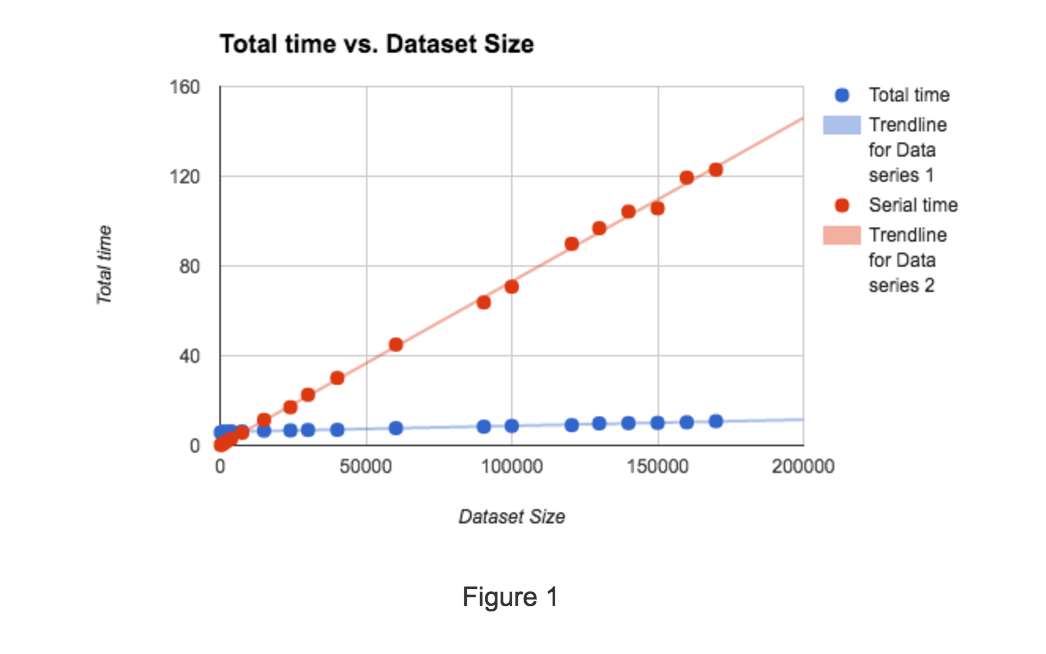
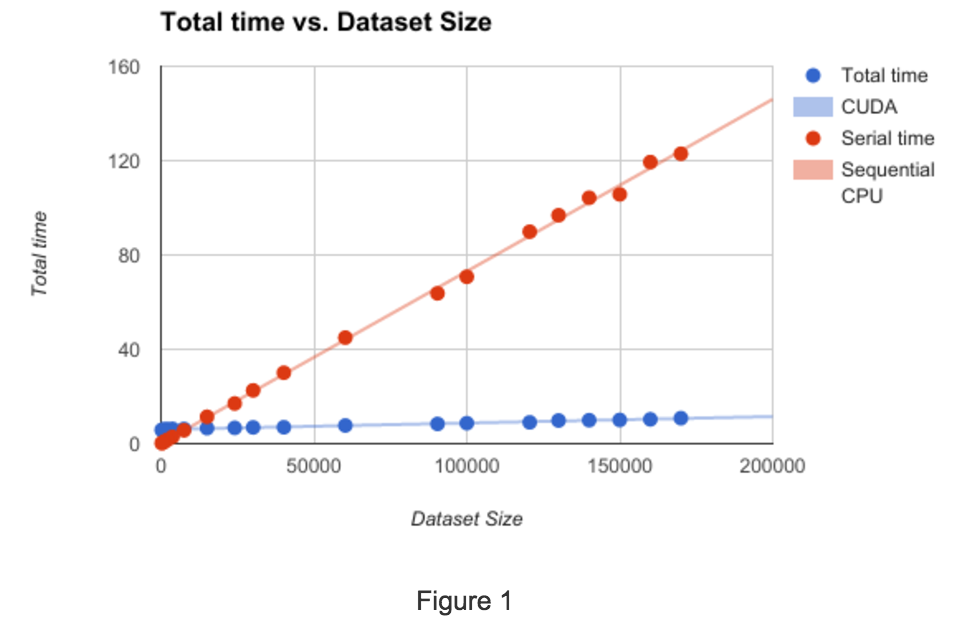
graph labels and baselines
¯\_(ツ)_/¯

diff --git a/index.html b/index.html
@@ -13,6 +13,7 @@
   	<link rel="stylesheet" href="css/materialize.min.css">
     <link rel="stylesheet" href="css/style.css">
   	<script src="js/materialize.min.js"></script>
+</script>
 
 </head>
 
@@ -39,32 +40,35 @@
      <br>
      <h5>Major technical challenges</h5>
      <p>One of the challenges arises from the fact that we are trying to outperform a sequential kd-tree-based nearest neighbor search implementation that is is fast and optimized (the Fast Library for Approximate Nearest Neighbors or FLANN). This means that we need to minimize the impact of the overhead of using the GPU for computation.</p>
-     <p>Parallelizing this algorithm is not trivial due to hardware and memory constraints. Point clouds have more than 120,000 points on average, so a naive pairwise brute force distance computation would need enough memory for 120,0002 = 14 billion entries, or 14 billion threads in total. Therefore we need to be smart about data reuse in order to reduce the memory footprint of the algorithm. We also try to use shared memory where possible to reduce the latency of memory access.</p>
+     <p>Parallelizing this algorithm is not trivial due to hardware and memory constraints. Point clouds have more than 120,000 points on average, so a naive pairwise brute force distance computation would need enough memory for 120,000&sup2; = 14 billion entries, or 14 billion threads in total. Therefore we need to be smart about data reuse in order to reduce the memory footprint of the algorithm. We also try to use shared memory where possible to reduce the latency of memory access.</p>
      <br>
      <h5>Preliminary Results</h5>
+     <h6><i>Establishing a baseline</i></h6>
+     <p>Let the reference dataset refer to the points captured at time t, and the query dataset refer to data obtained at time t+1. For this problem, we intend to find the nearest neighbor in the reference dataset for every point in the query dataset.</p>
+     <p>In the table below, the construction phase referred to the time it took to create a point cloud, and the querying phase refers to the total time taken for every point in the query dataset to find its nearest neighbor in the reference dataset. Both datasets contain more than 120,000 points.</p>
+     <center><img src="img/img7.png" width="300" height="300" align="middle"></center>
+     <br>
+
      <h6><i>Parallelizing over points</i></h6>
      <p>We developed a CUDA implementation for nearest neighbors that parallelized over the pixels in the reference point cloud and calculated the nearest neighbor for each point in the target point cloud sequentially.  In order to find out if we are maximizing the parallelism available with CUDA, we varied the number of points in the reference point cloud and obtained the following graph. </p>
-     <img src="img/img3.png" width="600" height="350">
-     <img src="img/img4.png" width="600" height="350">
+     <center><img src="img/img3.png" width="600" height="400" align="middle"></center>
+     <center><img src="img/img4.png" width="600" height="400" align="middle"></center>
      <p>As we can see from Figures 1 and 2 above, the CUDA times remained around the same (and were actually slower than the sequential implementation)  when the reference dataset contained around 2,000 points. This indicated that the overheads of the CUDA kernel calls dominated the time taken.</p>
-     <p>Beyond that, there was a somewhat linear increase in time as the number of points in the dataset increased.  This indicated that we were achieving the maximum parallelism capabilities of the machine given the constraints of our algorithm and dataset. Despite the parallelism, tis solution was still 40.3x slower than the sequential PCL kd-tree implementation. </p>
+     <p>Despite the massive parallelism that using CUDA brought, it was still <b>40.3x slower than the sequential PCL kd-tree implementation</b> with FLANN.  This led us to think of other implementations that involved launching fewer CUDA kernels or preprocessing the data.</p>
      <br>
-     <h6><i>Parallelizing over points</i></h6>
-     <p>We developed a CUDA implementation for nearest neighbors that parallelized over the pixels in the reference point cloud and calculated the nearest neighbor for each point in the target point cloud sequentially.  In order to find out if we are maximizing the parallelism available with CUDA, we varied the number of points in the reference point cloud and obtained the following graph. </p>
-     <p>As we can see from Figures 1 and 2 above, the CUDA times remained around the same (and were actually slower than the sequential implementation)  when the reference dataset contained around 2,000 points. This indicated that the overheads of the CUDA kernel calls dominated the time taken.</p>
-     <p>Beyond that, there was a somewhat linear increase in time as the number of points in the dataset increased.  This indicated that we were achieving the maximum parallelism capabilities of the machine given the constraints of our algorithm and dataset. Despite the parallelism, tis solution was still 40.3x slower than the sequential PCL kd-tree implementation. </p>
-     <br>
+
      <h6><i>Parallelizing over points in batches</i></h6>
-     <p>We moved on to use parallelize over points in batches of size chunksize.  This meant that the work performed by each CUDA thread increased by a factor of chunksize, but we made a CUDA call chunksize less times.  This turned out to be 4.3x faster our prior parallel CUDA algorithm.  This speedup can be explained by the overhead of  launching the additional CUDA kernels. </p>
+     <p>We moved on to use parallelize over points in batches of size <i>chunksize</i>.  This meant that the work performed by each CUDA thread increased by a factor of chunksize, but we made less CUDA calls by a factor of chunksize.  This turned out to be <b>4.3x faster our prior parallel CUDA algorithm and 10.17x slower than the sequential PCL kd-tree implementation</b>.  This speedup can possibly be explained by the overhead of launching the additional CUDA kernels. </p>
      <br>
      <h6><i>Reducing search space</i></h6>
+     <center><img src="img/img6.png" width="500" height="300" align="middle"></center>
      <p>Reducing the search space for nearest neighbors gives us significant additional speed up. Taking advantage of the 3D structure of Velodyne point clouds, as well as the most common use case, we can partition the point clouds by azimuth, and only search for nearest neighbors in the partition with similar azimuth. We sacrifice some correctness in reducing the search space, because the correctness nearest neighbor might not be within the space we are searching, but because this is an optimization problem and the data has noise to begin with, having some outliers is acceptable.</p>
 
-     <img src="img/img5.png" width="600" height="350">
+     <center><img src="img/img5.png" width="600" height="350" align="center"></center>
 
      <p>We see that correctness is maintained better for nearest neighbor searches between consecutive frames than between non-consecutive frames. This is not surprising, since consecutive frames, with a temporal difference of only 0.1s, are structurally similar and the simplifying assumptions we make above about where to find the nearest neighbor are more valid. Indeed, searching for nearest neighbors between consecutive frames is the most common use case, because in lidar mapping applications, the map is incrementally built every frame, and every new incoming frame is matched with the prior frame.</p>
 
-     <p>The horizontal axis, speedup, is proportional to the number of radial partitions. We can sacrifice some correctness to achieve a significant speed up. For instance, with consecutive frames, we can achieve a speedup of 48x and still find the correct nearest neighbor 99.7% of the time. We can achieve correctness scores of 98.2% and 94.9% with a speedup of 100x and 200x respectively.</p>
+     <p>The horizontal axis, speedup, is proportional to the number of radial partitions. We can sacrifice some correctness to achieve a significant speed up. For instance, <b>with consecutive frames, we can achieve a speedup of 48x and still find the correct nearest neighbor 99.7% of the time.</b> We can achieve <b>correctness scores of 98.2% and 94.9% with a speedup of 100x and 200x respectively</b>.</p>
 
      <p>Depending on the level of correctness needed by an application and whether it is finding nearest neighbors in consecutive or non-consecutive frames, one can choose the maximum amount of speedup that meets the constraints.</p>
      <br>
@@ -76,7 +80,14 @@
   </div>
 
 
+    <script>
+      (function(i,s,o,g,r,a,m){i['GoogleAnalyticsObject']=r;i[r]=i[r]||function(){
+      (i[r].q=i[r].q||[]).push(arguments)},i[r].l=1*new Date();a=s.createElement(o),
+      m=s.getElementsByTagName(o)[0];a.async=1;a.src=g;m.parentNode.insertBefore(a,m)
+      })(window,document,'script','https://www.google-analytics.com/analytics.js','ga');
 
+      ga('create', 'UA-68358910-2', 'auto');
+      ga('send', 'pageview', 'slam');
 	</script>
 
 	<footer class="page-footer amanda-navbar">&nbsp;&nbsp;&nbsp;&nbsp;<br>
